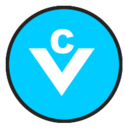
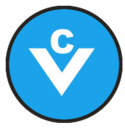
1833NE UI: production token art for six corporations
Checked against a photo of a production token tray: Rutland (yellow disc, larger
shield, bold name), Fitchburg (yellow-green ring, R-F-R monogram), LSL (L S L
between two rules, a fan of diamonds above and below), StL&A (the rulebook's logo
on an orange disc), NYNH&H (mid green, the script enlarged without "The" and
"Railroad Co.") and CV (deeper blue) differ from the 2020 sample sheet, so their
art is redrawn and their station colours follow. The other tokens, the joint
token and the ferry markers already match.

diff --git a/games/1833ne-ui/src/lib/mapView.ts b/games/1833ne-ui/src/lib/mapView.ts
@@ -281,22 +281,23 @@ export const MapView1833NE: MapViewDefinition = {
         'first-round': { notice: true },
         'terrain-discount': { terrainNote: true }
     },
-    // The corporations' tokens, from GMT's sample token sheet.
+    // The corporations' tokens, from GMT's sample token sheet, redrawn where the production
+    // tokens differ (Fitchburg, Rutland, CV, StL&A, NYNH&H and LSL).
     stations: {
         'B&W': { color: '#ffffff', label: 'B&W', imageUrl: BWToken },
         'B&P': { color: '#eacd93', label: 'B&P', imageUrl: BPToken },
         'B&L': { color: '#f5abad', label: 'B&L', imageUrl: BLToken },
-        FRR: { color: '#d1e088', label: 'Fitch', imageUrl: FRRToken },
+        FRR: { color: '#c9cd6a', label: 'Fitch', imageUrl: FRRToken },
         HR: { color: '#c4e9fb', label: 'Hart', imageUrl: HRToken },
-        RR: { color: '#2f7146', label: 'Rut', imageUrl: RRToken },
-        CV: { color: '#0095da', label: 'CV', imageUrl: CVToken },
+        RR: { color: '#e3d62f', label: 'Rut', imageUrl: RRToken },
+        CV: { color: '#1aa3ea', label: 'CV', imageUrl: CVToken },
         'StL&A': { color: '#f38221', label: 'StL&A', imageUrl: StLAToken },
         'A&StL': { color: '#8d807d', label: 'A&StL', imageUrl: AStLToken },
         'B&M': { color: '#76090f', label: 'B&M', imageUrl: BMToken },
-        'NYNH&H': { color: '#33ee33', label: 'NH', imageUrl: NYNHHToken },
+        'NYNH&H': { color: '#548c46', label: 'NH', imageUrl: NYNHHToken },
         Era: { color: '#a2633f', label: 'Era', imageUrl: EraToken },
         UP: { color: '#ff0000', label: 'UP', imageUrl: UPToken },
-        LSL: { color: '#6a6afa', label: 'LSL', imageUrl: LSLToken }
+        LSL: { color: '#8a72b4', label: 'LSL', imageUrl: LSLToken }
     },
     // The St. Lawrence corporations' one Sherbrooke token prints both their marks (§6.53).
     sharedStations: {
